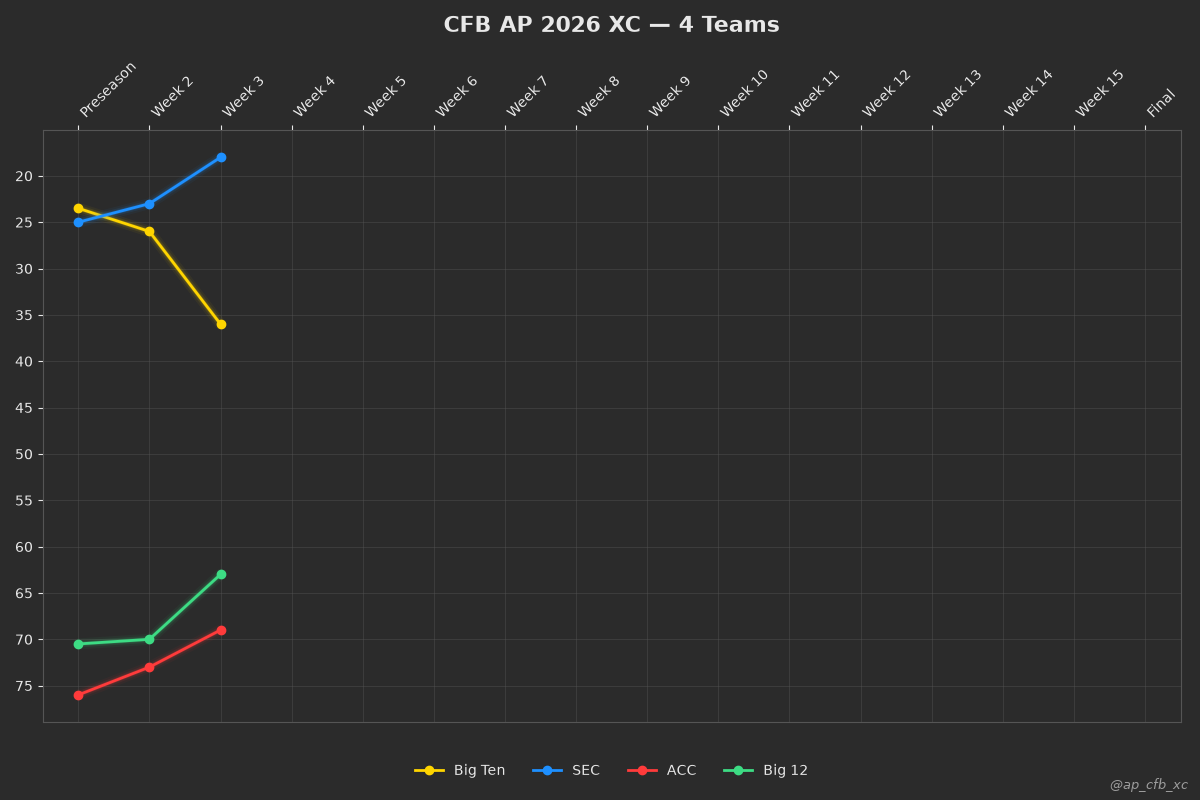
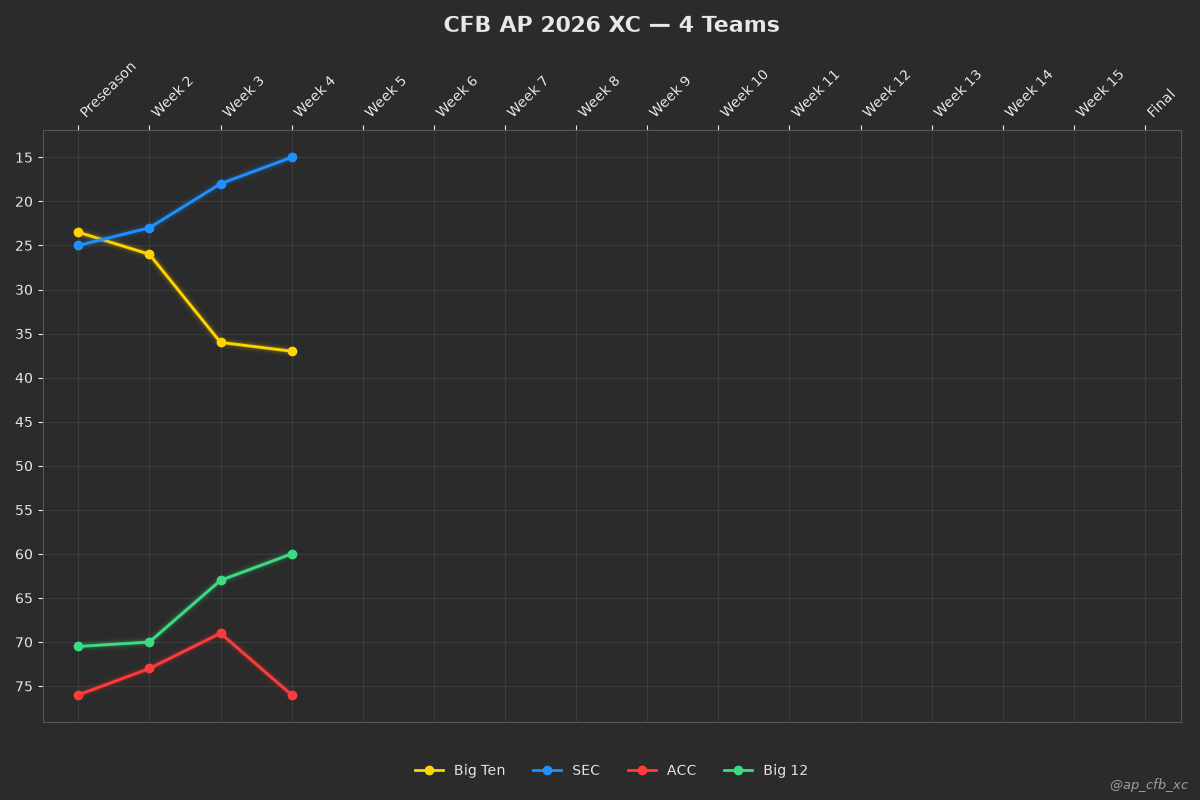
Add Week 4 2026 results

diff --git a/README.md b/README.md
@@ -18,24 +18,24 @@ This provides an objective, measurable comparison of conference strength for eve
 ![five team](images/current_week_5team.png)
 
 <!-- XC-TABLE-5-TEAM:START -->
-**2026 Week 3** — 5-team XC standings
+**2026 Week 4** — 5-team XC standings
 
 | Pos | 1st · SEC | 2nd · Big Ten | 3rd · Big 12 | 4th · ACC |
 |:---:|:---|:---|:---|:---|
-| **Score** | **27** | **54** | **92** | **103** |
-| 1 | Texas (1) | Indiana (4) | BYU (11) | Miami (5) |
-| 2 | Georgia (2) | Ohio State (6) | Texas Tech (13) | SMU (16) |
-| 3 | LSU (7) | USC (12) | Utah (17) | Louisville (23) |
-| 4 | Ole Miss (8) | Penn State (14) | Houston (22) | Virginia (25) |
-| 5 | Texas A&M (9) | Iowa (18) | Oklahoma St (29) | Virginia Tech (34) |
+| **Score** | **25** | **54** | **88** | **110** |
+| 1 | Texas (1) | Indiana (5) | BYU (9) | Miami (6) |
+| 2 | Georgia (2) | Ohio State (7) | Texas Tech (11) | Louisville (16) |
+| 3 | Ole Miss (4) | USC (12) | Utah (15) | SMU (22) |
+| 4 | Alabama (8) | Penn State (13) | Houston (25) | Virginia Tech (32) |
+| 5 | LSU (10) | Iowa (17) | West Virginia (28) | Duke (34) |
 |  | ——— | ——— | ——— | ——— |
-| 6 | *Alabama (10)* | *Michigan (19)* | *Arizona (37)* | *Pitt (39.5)* |
-| 7 | *Tennessee (15)* | *Oregon (21)* | *Kansas St (39.5)* |  |
-| 8 | *Missouri (20)* | *Washington (26)* |  |  |
-| 9 | *Oklahoma (24)* | *UCLA (35)* |  |  |
-| 10 | *Florida (27)* |  |  |  |
-| 11 | *Mississippi St (32)* |  |  |  |
-| 12 | *South Carolina (33)* |  |  |  |
+| 6 | *Tennessee (14)* | *Michigan (18)* | *Oklahoma St (30)* | *Pitt (37.5)* |
+| 7 | *Missouri (19)* | *Oregon (20)* | *Arizona (36)* |  |
+| 8 | *Florida (21)* | *Washington (26)* | *Kansas St (41)* |  |
+| 9 | *Texas A&M (23)* | *UCLA (37.5)* |  |  |
+| 10 | *Mississippi St (24)* | *Nebraska (42)* |  |  |
+| 11 | *Kentucky (27)* |  |  |  |
+| 12 | *Oklahoma (29)* |  |  |  |
 
 <sub>Each team is shown with its AP ranking. A conference's score is the sum of its top five teams' rankings - lowest score wins, and ties are broken by each conference's 6th runner. Italicized teams don't count toward the score; DNS means the conference didn't have enough ranked teams to score.</sub>
 <!-- XC-TABLE-5-TEAM:END -->
